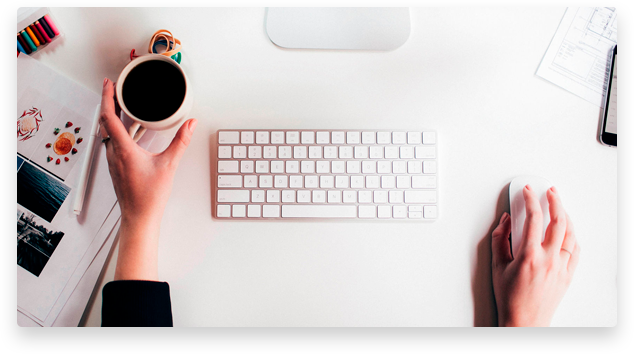
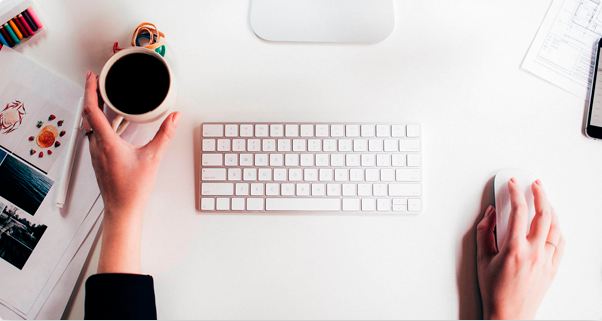
подгонка по pixel perfect

diff --git a/src/styles/main.scss b/src/styles/main.scss
@@ -92,9 +92,8 @@ body{
 .btn {
   color: #000;
   flex-shrink: 0;
-  height: 40px;
-  padding: 10px 30px;
-  line-height: 20px;
+  padding: 20px 20px;
+  line-height: 1;
   border: 0;
   border-radius: 4px;
 }
@@ -110,8 +109,8 @@ body{
   border: 1px solid $light-color;
   border-radius: 2px;
   flex-shrink: 0;
-  height: 40px;
-  padding:  10px 20px;
+
+  padding:  5px 18px;
   font-weight: 400;
 }
 .btn-text-uppercase{
@@ -121,7 +120,6 @@ body{
 .block-main{
   display: flex;
   justify-content: space-between;
-  align-items: center;
   margin-top: 160px;
   &-content{
     flex-basis: 40%;
@@ -130,16 +128,20 @@ body{
       font-weight: 800;
       font-size: 55px;
       text-transform: uppercase;
-      line-height: 1;
+      line-height: 1.1;
+      letter-spacing: 1.4px;
+      margin: 0;
     }
     &__text{
       font-weight: 400;
       font-size: 18px;
+      line-height: 2;
+      margin-top: 5px;
     }
     &__btn{
-
+        margin-right: 35px;
+        width: 150px;
     }
-
   }
   &-video{
     flex-basis: 40%;
@@ -147,20 +149,16 @@ body{
 
   }
 }
-.btn-player{
-  height: 50px;
-  width: 50px;
-  padding:  10px 10px;
-  i{
-    color: $light-color;
-  }
+.block-main-content-actions{
+  margin-top: 30px;
 }
+
 #player {
   border: 1px solid black;
   padding: 0;
   margin: 0;
-  width: 634px;
-  height: 354px;
+  width: 598px;
+  height: 319px;
   background-color: black;
   margin: auto;
   display: none;
@@ -171,8 +169,8 @@ body{
   border-radius: 4px;
   padding: 0;
   margin: 0;
-  width: 634px;
-  height: 330px;
+  width: 598px;
+  height: 319px;
   background-color: black;
   background-image: url("../img/video.png");
   background-size: cover;
@@ -183,4 +181,21 @@ body{
   align-items: center;
   color: $dark-color;
   box-shadow:0 0 0 250px rgba(255, 255, 255, 0.9) inset;
+}
+.player__btn{
+  height: 60px;
+  width: 60px;
+  padding:  10px 10px;
+  font-size: 10px;
+  margin-top: 15px;
+  i{
+    color: $light-color;
+  }
+}
+.player__text{
+  font-size: 12px;
+  font-weight: 700;
+  text-transform: uppercase;
+  line-height: 1;
+  margin-top: 20px;
 }

diff --git a/src/views/index.html b/src/views/index.html
@@ -31,7 +31,7 @@
 					<h1 class="block-main-content__title">lorem Ipsum Dolor sit amet</h1>
 					<p class="block-main-content__text">Lorem ipsum dolor sit amet, consectetur adipisicing elit, sed do eiusmod tempor incididunt labore
 						et dolore magna aliqua. Ut enim ad minim veniam, quis nostrud exercitation ullamc</p>
-					<div class="product__actions block-main-content-actions">
+					<div class="block-main-content-actions">
 						<button class="btn btn-text-uppercase btn-dark block-main-content__btn">Buy Now</button>
 						<button class="btn btn-text-uppercase block-main-content__btn">Try for free</button>
 					</div>
@@ -42,10 +42,10 @@
 						<p>Your user agent does not support the HTML5 Video element.</p>
 					</video>
 					<div id="fake-player">
-						<button class="btn btn-player btn-dark" onclick="startPlayer()">
+						<button class="btn btn-dark player__btn" onclick="startPlayer()">
 							<i class="fas fa-play"></i>
 						</button>
-						<p>Watch the video</p>
+						<p class="player__text">Watch the video</p>
 					</div>
 				</div>
 			</div>
